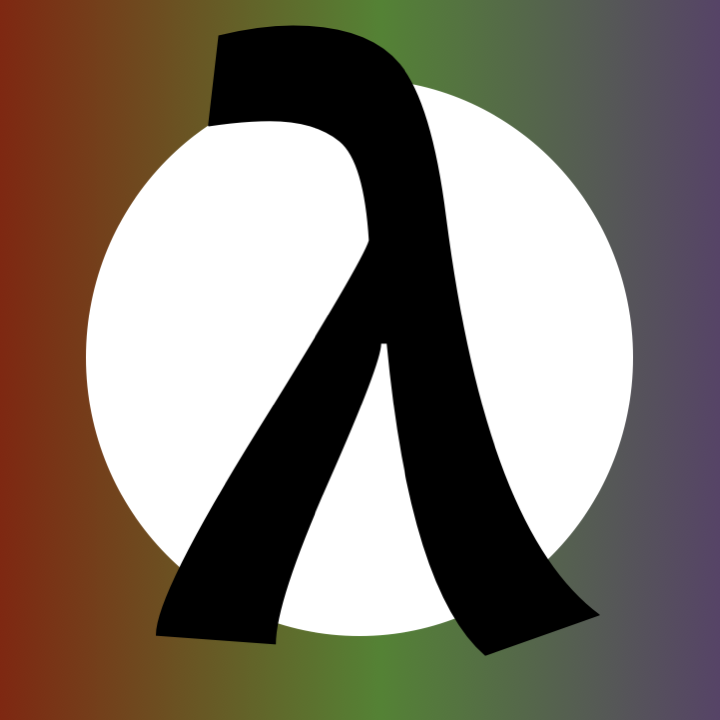
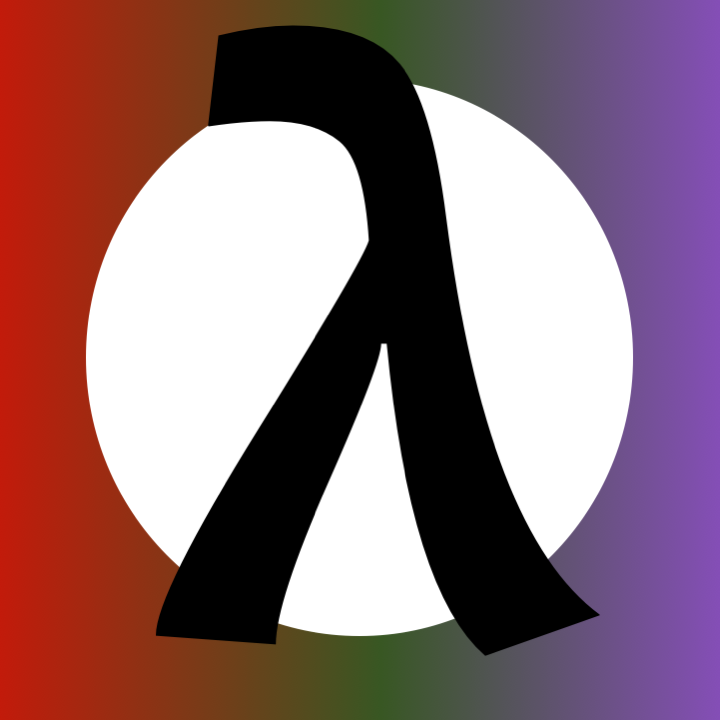
tweaks in design; offline.html added

diff --git a/rails/public/offline.html b/rails/public/offline.html
@@ -1,0 +1,5 @@
+<HTML>
+  <BODY>
+    Your device is offline. This page has not been cached during any online session yet.
+  </BODY>
+</HTML>
